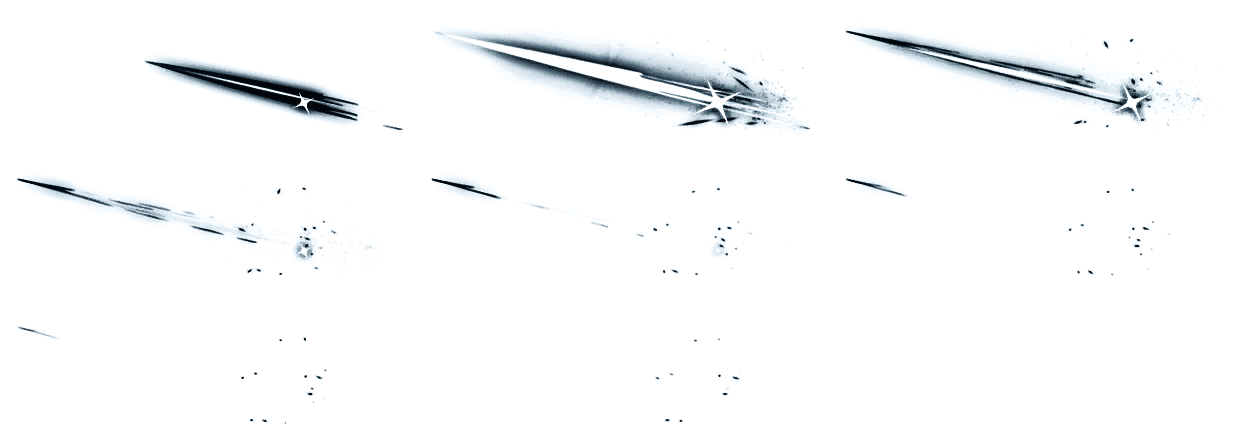
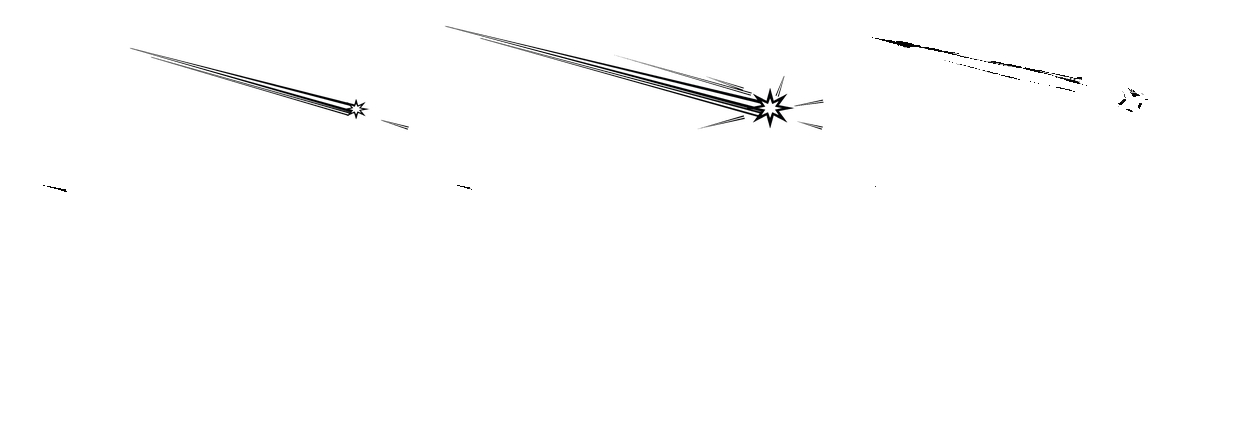
patch

diff --git a/CHANGELOG_KATANA_QOL_V14_13_0.md b/CHANGELOG_KATANA_QOL_V14_13_0.md
@@ -1,0 +1,11 @@
+# v14.13.0 katana QoL patch
+
+- 극월 HUD 점등 가시성 개선: star_ring 기반 점등 슬롯을 더 또렷하게 표시
+- 월영참 3식: 플레이어 기준 시작점 고정 + 적 밀집 방향 우선 발동
+- 월영참 1/3식 VFX 방향 보정(3식 포함)
+- 월영참 판정 구간을 VFX 진행 방향과 더 가깝게 정렬
+- 절월 VFX 불투명도 상향
+- 월하유성보 VFX/실제 타격 범위 확대
+- 경화수월: 일반 회피에도 잔상 참격 발생
+- 경화수월 발동 이펙트 확대 및 적 짧은 정지 부여
+- 왜도 계열 회피 쿨다운 체감 강화
